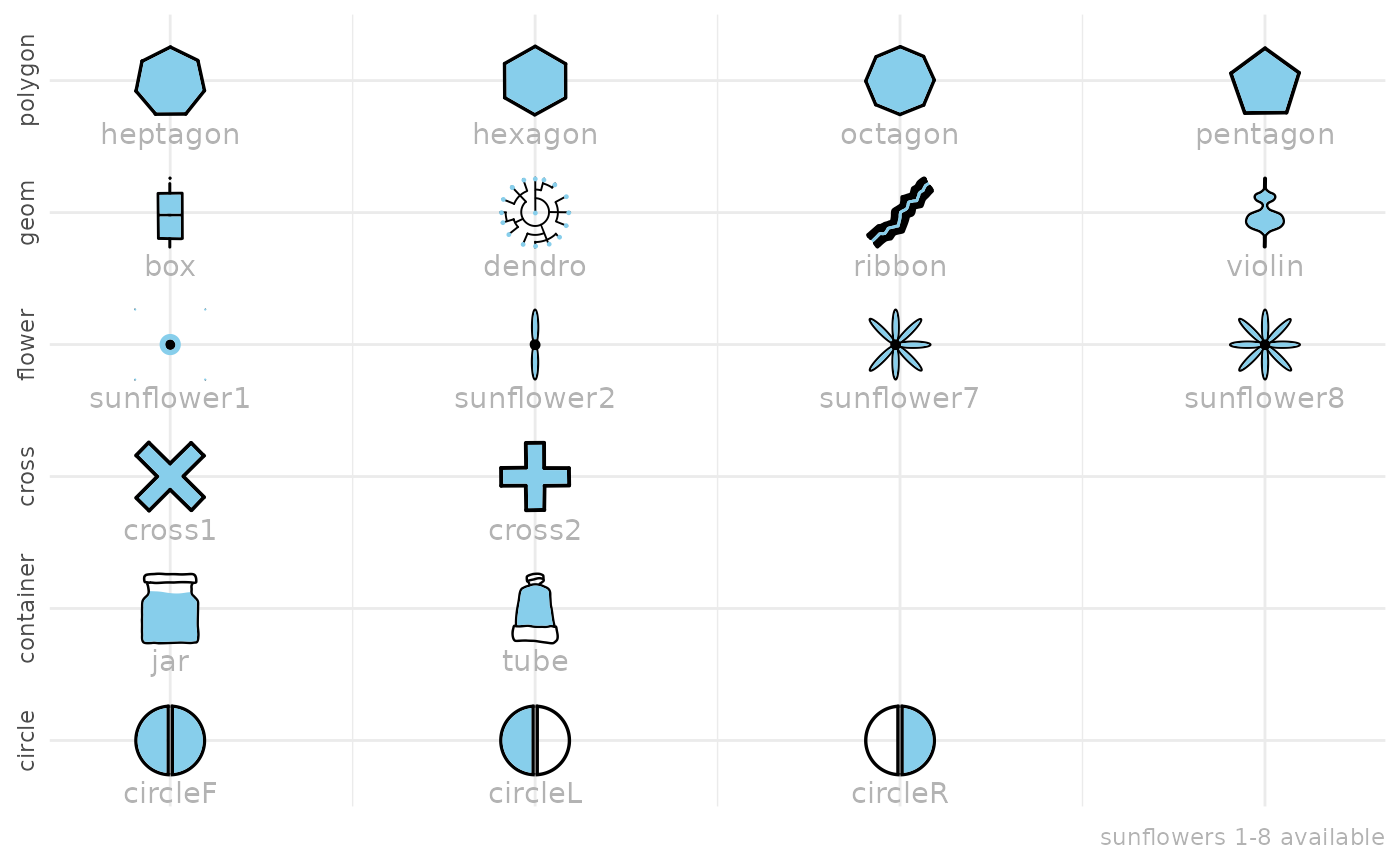
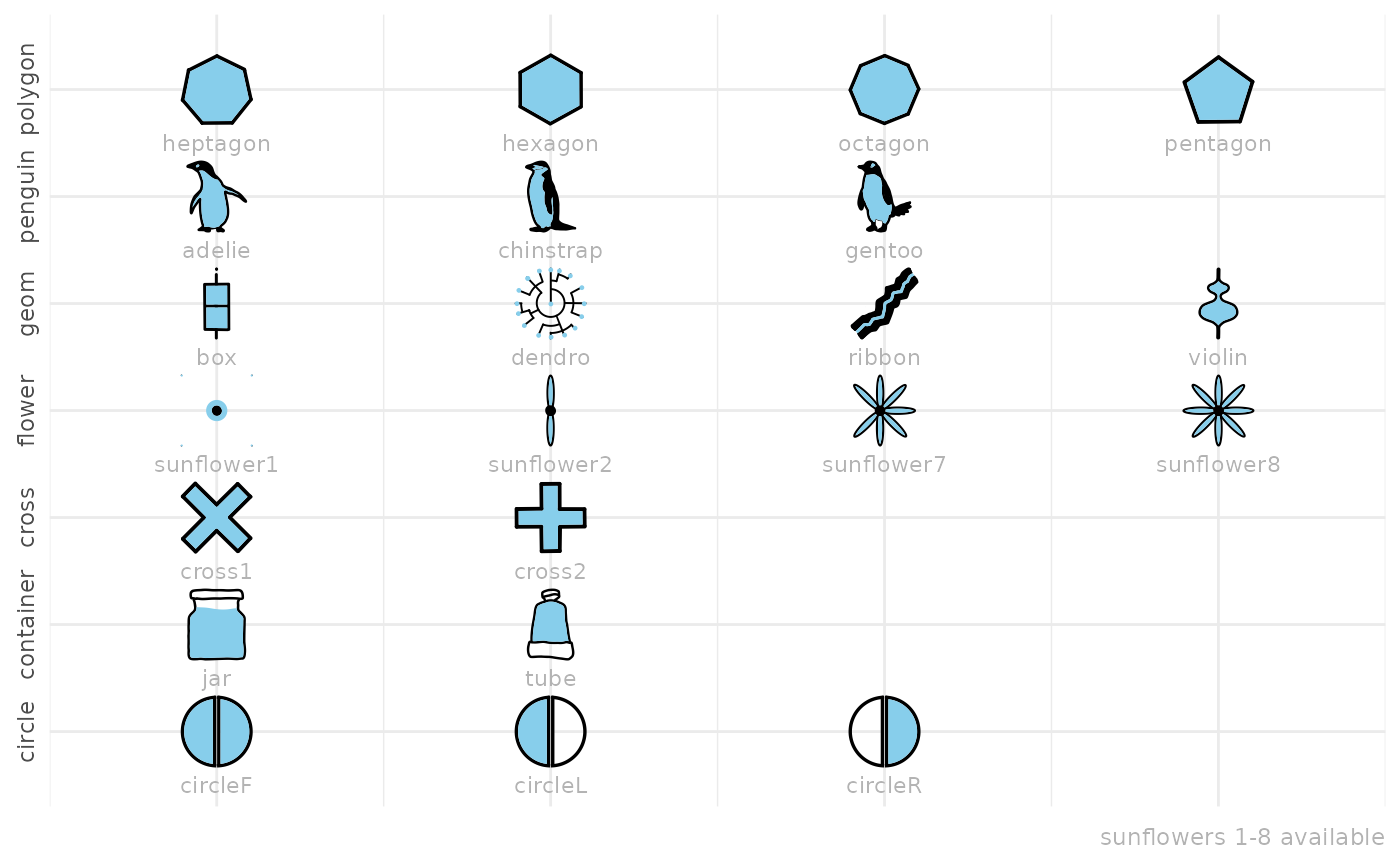
Deploying to gh-pages from @ cgoo4/ggfoundry@f7feb9475c7bed483729c55ee82177f7930875ea 🚀

diff --git a/articles/ggfoundry.html b/articles/ggfoundry.html
@@ -131,8 +131,8 @@ graphics format, forged at extreme temperatures into objects of class
 “Picture”, and finally delicately cast as a <code>gTree</code>
 representation of the original shape. But not quite back to where we
 started, because they are now editable.</p>
-<p>When cooled and finely burnished, the gTree and all its grob
-children, may then be manipulated by <code><a href="../reference/geom_casting.html">geom_casting()</a></code> to
+<p>When cooled and finely burnished, the <code>gTree</code> and all its
+grob children, may then be manipulated by <code><a href="../reference/geom_casting.html">geom_casting()</a></code> to
 render the desired ggplot with those special high-end adornments.</p>
 </div>
 <div class="section level2">
@@ -399,8 +399,9 @@ here as a very basic example.</p>
 search of that elusive shape (or small set), a hand-made grob may be the
 fillable “Holy Grail” sought via a <a href="https://github.com/cgoo4/ggfoundry/issues" class="external-link">Github issue</a>.</p>
 <p>These modest starter sets are included with the package. You can “mix
-and match” shapes from different sets; the “set” is purely for grouping
-shapes in the documentation.</p>
+and match” shapes from different sets; the “set” is for grouping shapes
+in the documentation and for use in <code><a href="../reference/shapes_cast.html">shapes_cast()</a></code> to filter
+for the desired shapes.</p>
 <p><img src="ggfoundry_files/figure-html/sets-1.png" width="100%"></p>
 </div>
   </main><aside class="col-md-3"><nav id="toc"><h2>On this page</h2>

diff --git a/news/index.html b/news/index.html
@@ -55,8 +55,9 @@
 
     <div class="section level2">
 <h2 class="pkg-version" data-toc-text="development version" id="ggfoundry-development-version">ggfoundry (development version)<a class="anchor" aria-label="anchor" href="#ggfoundry-development-version"></a></h2>
-<ul><li>2 shapes (“jar” &amp; “tube”) added to the “container” set (<a href="https://github.com/cgoo4/ggfoundry/issues/1" class="external-link">#1</a>).</li>
-<li>8 shapes (“sunflower1” to “sunflower8”) added to the “flower” set (<a href="https://github.com/cgoo4/ggfoundry/issues/4" class="external-link">#4</a>).</li>
+<ul><li>2 shapes (“jar” &amp; “tube”) added to a “container” set (<a href="https://github.com/cgoo4/ggfoundry/issues/1" class="external-link">#1</a>).</li>
+<li>8 shapes (“sunflower1” to “sunflower8”) added to a “flower” set (<a href="https://github.com/cgoo4/ggfoundry/issues/4" class="external-link">#4</a>).</li>
+<li>3 shapes (“gentoo”, “chinstrap” &amp; “adelie”) added to a “penguin” set (<a href="https://github.com/cgoo4/ggfoundry/issues/5" class="external-link">#5</a>).</li>
 <li>Invalid-shape error message notes shape may be in DEV (<a href="https://github.com/cgoo4/ggfoundry/issues/2" class="external-link">#2</a>).</li>
 <li>New <code><a href="../reference/shapes_cast.html">shapes_cast()</a></code> creates a data frame of available sets &amp; shapes (<a href="https://github.com/cgoo4/ggfoundry/issues/3" class="external-link">#3</a>).</li>
 <li>Showcase vignette added.</li>

diff --git a/reference/shapes_cast.html b/reference/shapes_cast.html
@@ -100,10 +100,13 @@ filtered and used as a vector of strings in <code>scale_shape_manual</code>.</p>
 <span class="r-out co"><span class="r-pr">#&gt;</span> 33      geom     dendro</span>
 <span class="r-out co"><span class="r-pr">#&gt;</span> 35      geom     ribbon</span>
 <span class="r-out co"><span class="r-pr">#&gt;</span> 37      geom     violin</span>
-<span class="r-out co"><span class="r-pr">#&gt;</span> 39   polygon   heptagon</span>
-<span class="r-out co"><span class="r-pr">#&gt;</span> 41   polygon    hexagon</span>
-<span class="r-out co"><span class="r-pr">#&gt;</span> 43   polygon    octagon</span>
-<span class="r-out co"><span class="r-pr">#&gt;</span> 45   polygon   pentagon</span>
+<span class="r-out co"><span class="r-pr">#&gt;</span> 39   penguin     adelie</span>
+<span class="r-out co"><span class="r-pr">#&gt;</span> 41   penguin  chinstrap</span>
+<span class="r-out co"><span class="r-pr">#&gt;</span> 43   penguin     gentoo</span>
+<span class="r-out co"><span class="r-pr">#&gt;</span> 45   polygon   heptagon</span>
+<span class="r-out co"><span class="r-pr">#&gt;</span> 47   polygon    hexagon</span>
+<span class="r-out co"><span class="r-pr">#&gt;</span> 49   polygon    octagon</span>
+<span class="r-out co"><span class="r-pr">#&gt;</span> 51   polygon   pentagon</span>
 </code></pre></div>
     </div>
   </main><aside class="col-md-3"><nav id="toc"><h2>On this page</h2>
